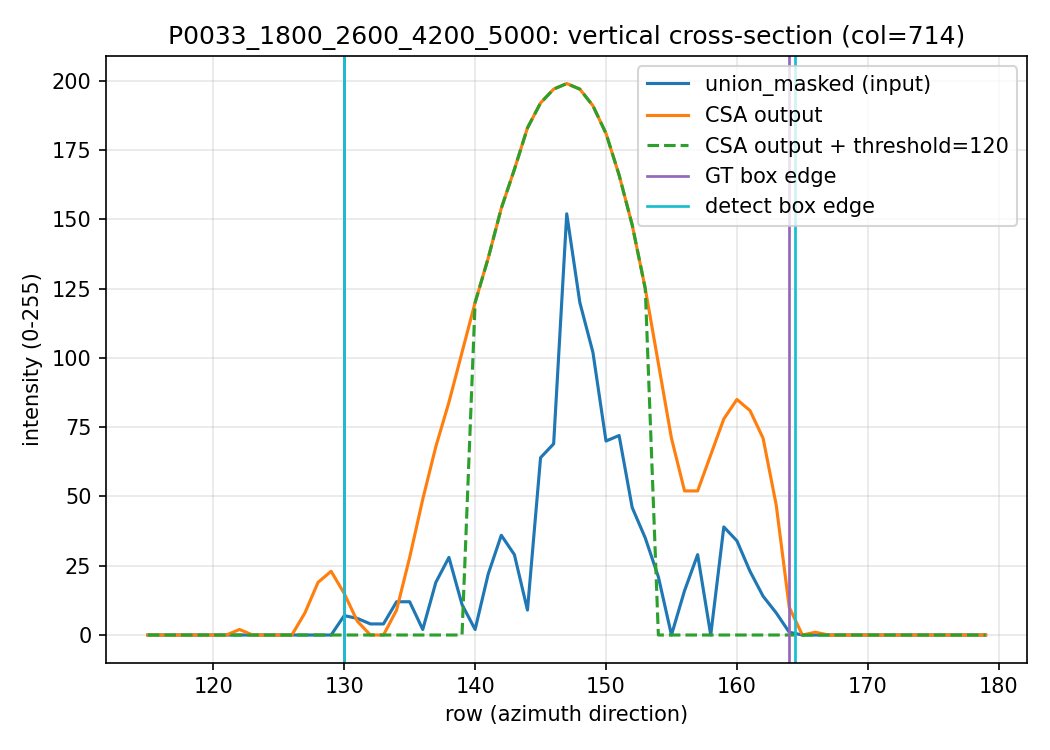
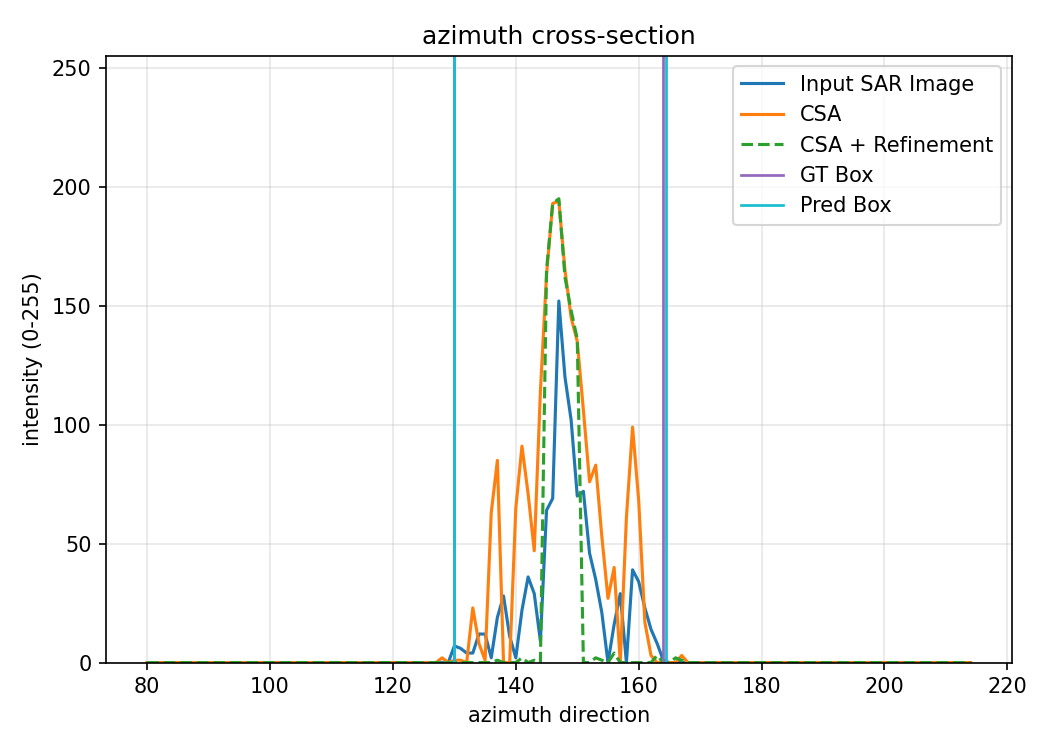
Regenerate cross-section diagrams with the current pipeline and a shared range

diff --git a/end_to_end_pipeline/crosssection_plots/plot_input_vs_csa_crosssection.py b/end_to_end_pipeline/crosssection_plots/plot_input_vs_csa_crosssection.py
@@ -1,0 +1,88 @@
+#!/usr/bin/env python3
+"""Same as plot_crosssection_scene.py, but with only Input SAR Image and CSA
+(no CSA+Refinement/threshold curve) -- for looking at the raw CSA
+reconstruction against the input on its own, without a refinement step
+confounding the comparison. Combines the horizontal and vertical cuts into
+ONE figure (two subplots) rather than two separate files.
+
+Does not modify any existing pipeline code -- standalone experiment script.
+
+Usage:
+    python plot_input_vs_csa_crosssection.py P0033_1800_2600_4200_5000 \
+        --row 147 --col 714 --row-window 80 215 --col-window 650 780
+"""
+import argparse
+import os
+
+import cv2
+import matplotlib.pyplot as plt
+import numpy as np
+
+from plot_crosssection_scene import get_gt_and_pred_boxes, edges_crossing, draw_box_edges
+
+BASE = os.path.dirname(os.path.dirname(os.path.abspath(__file__)))
+DIAGRAM_DIR = os.path.join(BASE, "..", "diagram", "thresholding", "union_csa")
+
+
+def main():
+    ap = argparse.ArgumentParser()
+    ap.add_argument("stem")
+    ap.add_argument("--row", type=int, required=True)
+    ap.add_argument("--col", type=int, required=True)
+    ap.add_argument("--row-window", type=int, nargs=2, required=True, metavar=("R0", "R1"))
+    ap.add_argument("--col-window", type=int, nargs=2, required=True, metavar=("C0", "C1"))
+    ap.add_argument("--out", default=None)
+    ap.add_argument("--no-boxes", action="store_true")
+    args = ap.parse_args()
+
+    gt_edges_h, pred_edges_h = [], []
+    gt_edges_v, pred_edges_v = [], []
+    if not args.no_boxes:
+        gt_boxes, pred_boxes = get_gt_and_pred_boxes(args.stem)
+        gt_edges_h = edges_crossing(gt_boxes, fixed_row=args.row)
+        pred_edges_h = edges_crossing(pred_boxes, fixed_row=args.row)
+        gt_edges_v = edges_crossing(gt_boxes, fixed_col=args.col)
+        pred_edges_v = edges_crossing(pred_boxes, fixed_col=args.col)
+
+    union_masked_path = os.path.join(BASE, "union_masked", "images", args.stem + ".jpg")
+    csa_path = os.path.join(BASE, "union_pipeline", "csa_jpg", args.stem + ".jpg")
+    os.makedirs(DIAGRAM_DIR, exist_ok=True)
+    out_path = args.out or os.path.join(DIAGRAM_DIR, f"crosssection_input_vs_csa_{args.stem}.png")
+
+    point_target = cv2.imread(union_masked_path, cv2.IMREAD_GRAYSCALE).astype(np.float64)
+    csa = cv2.imread(csa_path, cv2.IMREAD_GRAYSCALE).astype(np.float64)
+
+    fig, axes = plt.subplots(1, 2, figsize=(12, 5))
+
+    c0, c1 = args.col_window
+    x = np.arange(c0, c1)
+    axes[0].plot(x, point_target[args.row, c0:c1], color="tab:blue", label="Input SAR Image")
+    axes[0].plot(x, csa[args.row, c0:c1], color="tab:orange", label="CSA")
+    draw_box_edges(axes[0], gt_edges_h, pred_edges_h, c0, c1)
+    axes[0].set_title(f"range cross-section (row={args.row})")
+    axes[0].set_xlabel("range direction")
+    axes[0].set_ylabel("intensity (0-255)")
+    axes[0].set_ylim(0, 255)
+    axes[0].legend()
+    axes[0].grid(alpha=0.3)
+
+    r0, r1 = args.row_window
+    y = np.arange(r0, r1)
+    axes[1].plot(y, point_target[r0:r1, args.col], color="tab:blue", label="Input SAR Image")
+    axes[1].plot(y, csa[r0:r1, args.col], color="tab:orange", label="CSA")
+    draw_box_edges(axes[1], gt_edges_v, pred_edges_v, r0, r1)
+    axes[1].set_title(f"azimuth cross-section (col={args.col})")
+    axes[1].set_xlabel("azimuth direction")
+    axes[1].set_ylabel("intensity (0-255)")
+    axes[1].set_ylim(0, 255)
+    axes[1].legend()
+    axes[1].grid(alpha=0.3)
+
+    plt.tight_layout()
+    plt.savefig(out_path, dpi=150)
+    plt.close(fig)
+    print(f"Saved -> {out_path}")
+
+
+if __name__ == "__main__":
+    main()
